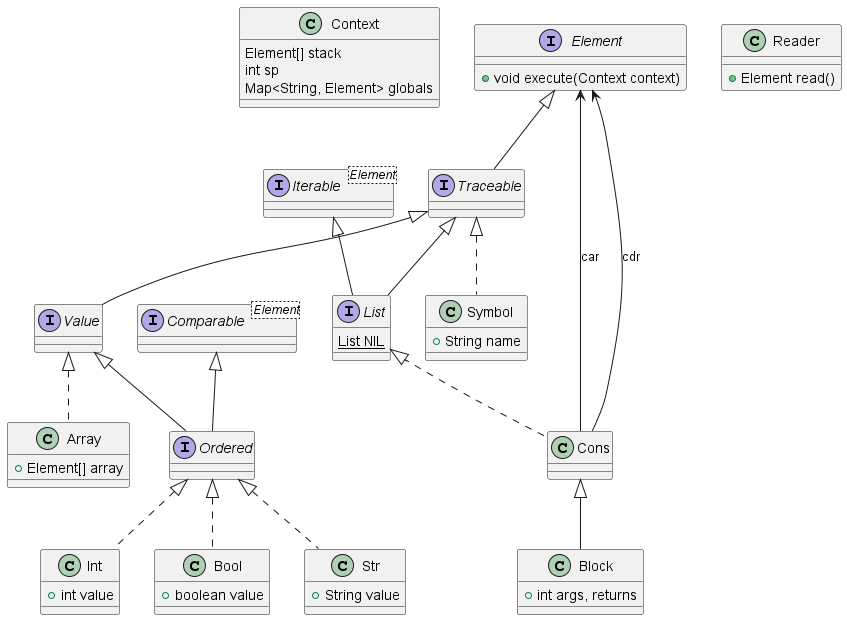
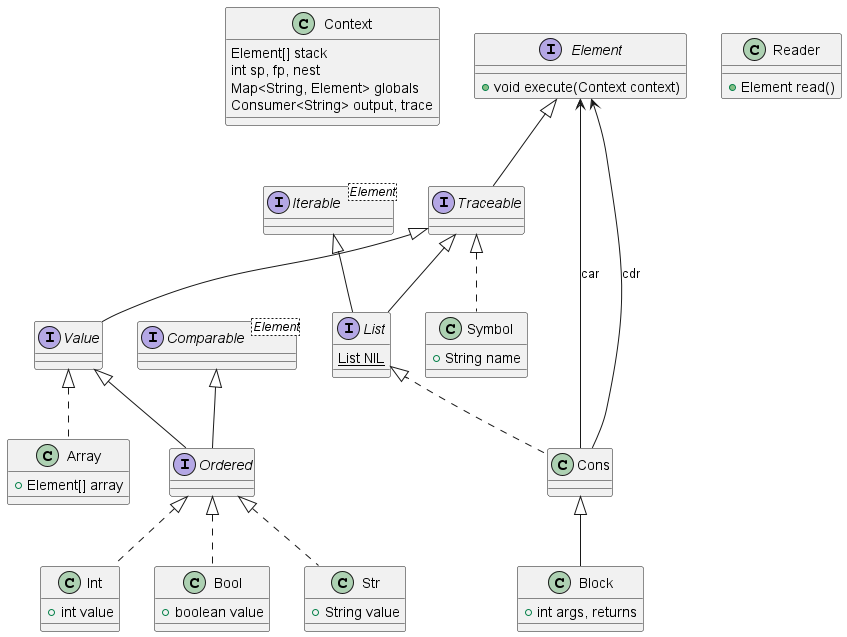
Context更新。

diff --git a/src/main/java/saka1029/qstack/Context.java b/src/main/java/saka1029/qstack/Context.java
@@ -14,11 +14,9 @@ public class Context {
     static final Logger logger = Common.logger(Context.class);
 
     public final Element[] stack;
-    public int sp = 0, fp = 0;
+    public int sp = 0, fp = 0, nest = 0;
     public final Map<Symbol, Element> globals = new HashMap<>();
-    public Consumer<String> output = null;
-    public Consumer<String> trace = null;
-    public int nest = 0;
+    public Consumer<String> output = null, trace = null;
 
     Context(int stackSize) {
         this.stack = new Element[stackSize];
